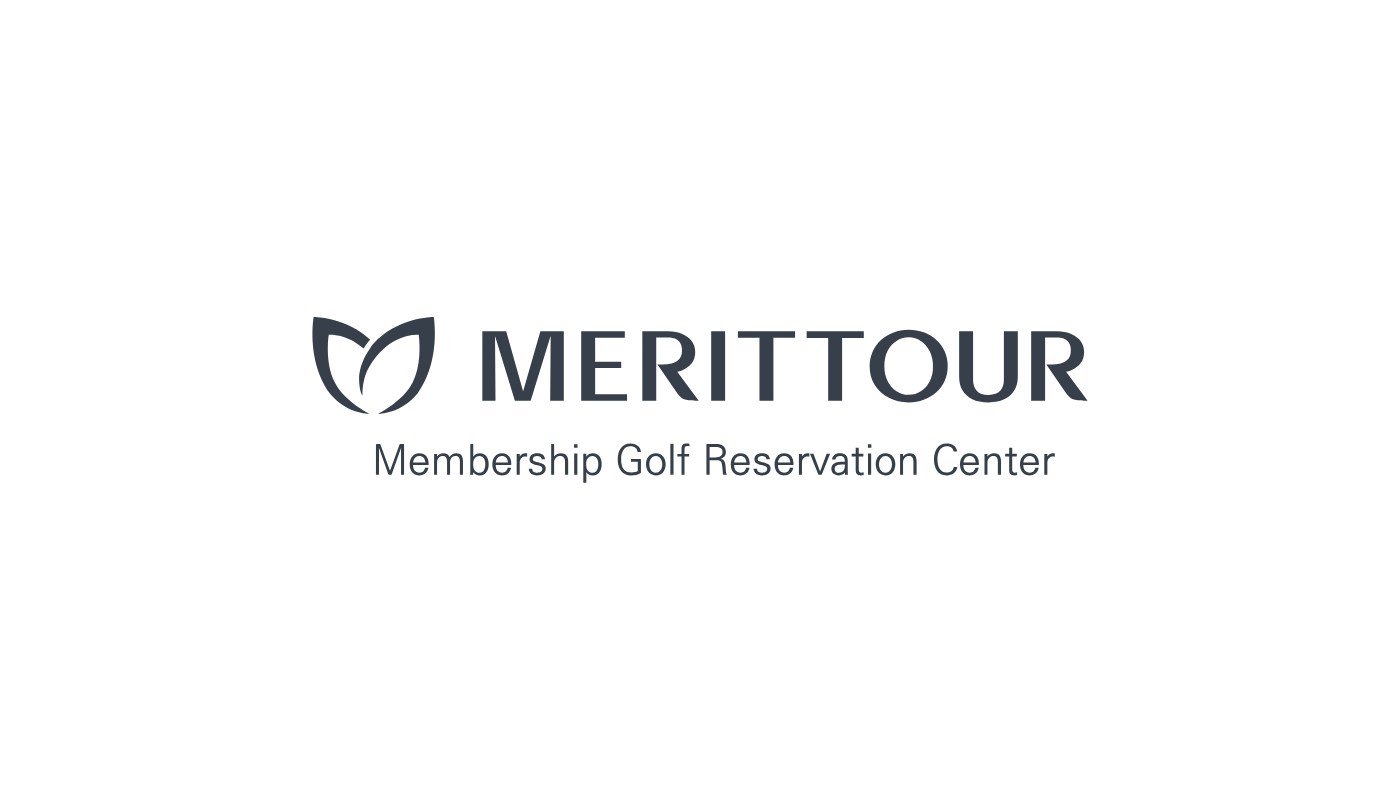
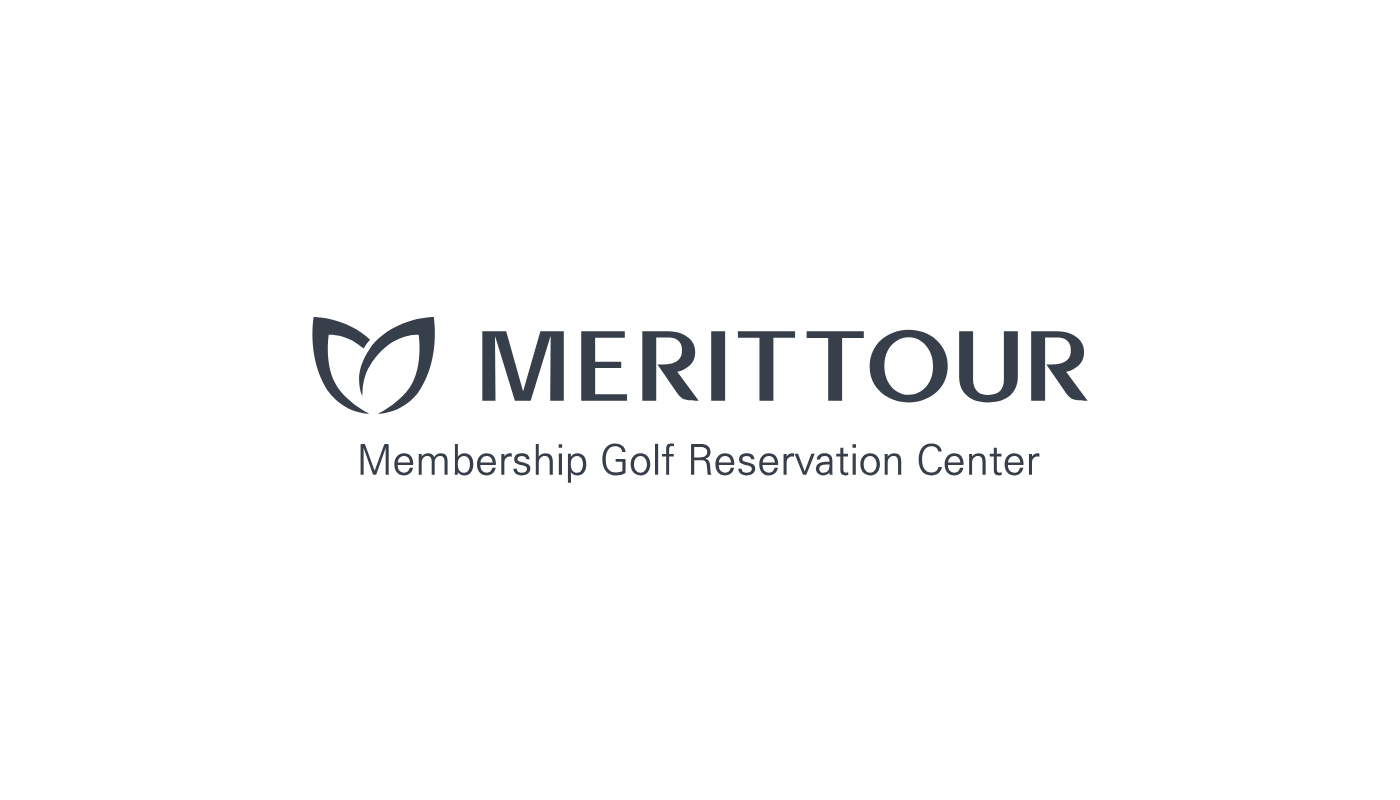
간판 문구를 판 정중앙으로 맞춘다 (#149)
받은 v1.3 은 제목에 「정중앙」이라 적혀 있는데 문구가 7.685mm 오른쪽이었다.
이미 인쇄가 끝난 판이라 그대로 두어도 됐지만, 다음에 이 파일로 다시 뽑을 때
같은 자리에서 또 어긋난다.

  전  로고 중심 350.015 · 문구 중심 357.685   (판 중심 350mm)
  후  로고 중심 350.015 · 문구 중심 350.000

slogan 그룹의 translate x 만 -79.1976 → -86.8823 로 옮겼다. 크기·간격·글자는
건드리지 않았다 — 두 파일 통틀어 바뀐 줄은 각각 한 줄이다.

로고는 원래 정중앙이었다(0.015mm 차이는 도형 자체의 좌우 여백이라 그대로 둔다).

배너(banner-youtube-*)는 로고·문구를 각각 가운데에 놓고 있어 영향이 없다.

검증 — 두 파일 다시 그려 중심 재측정, 미리보기 PNG 갱신.

Claude-Session: https://claude.ai/code/session_01CsrANVbS6dHXTrrsVQfJ1f

Changed region(s): [[0.2457, 0.5312, 0.7679, 0.5938]]

diff --git a/assets/README.md b/assets/README.md
@@ -29,8 +29,8 @@
 
 - 네이비 판의 바탕은 `#393E4D` 로, 브랜드 네이비 `#373F4A` 와 조금 다르다.
   간판용으로 일부러 고른 색이면 그대로 두고, 맞출 생각이면 두 파일을 함께 고친다.
-- 로고는 판 정중앙에 있고, 문구는 **중앙에서 약 8mm 오른쪽**에 있다(700mm 기준).
-  가까이서 보면 보이는 정도이니, 신경 쓰이면 `slogan` 그룹의 `translate` 를 옮기면 된다.
+- 로고·문구 모두 판 정중앙이다. 처음 받은 v1.3 은 문구가 7.7mm 오른쪽이었고,
+  `slogan` 그룹의 `translate` x 를 그만큼 옮겨 맞췄다(이미 인쇄된 판과는 그만큼 다르다).
 
 ## 유튜브 배너
 
